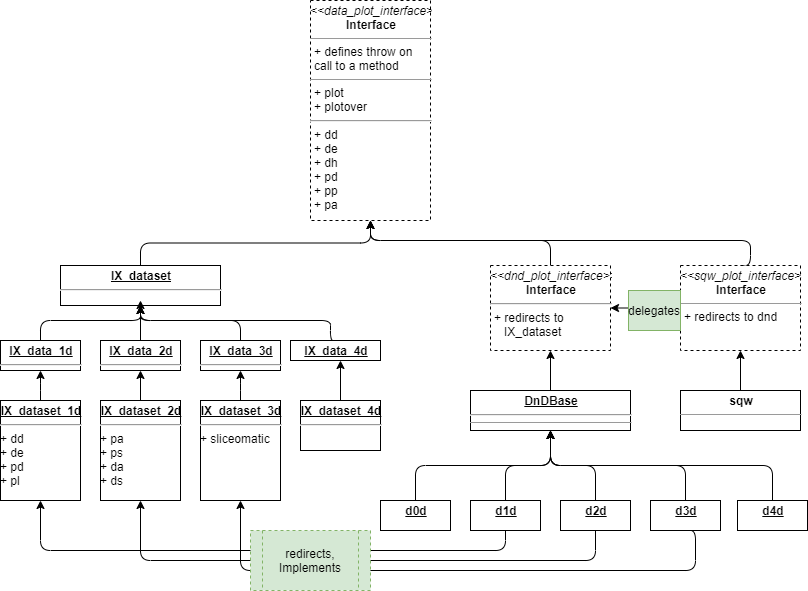
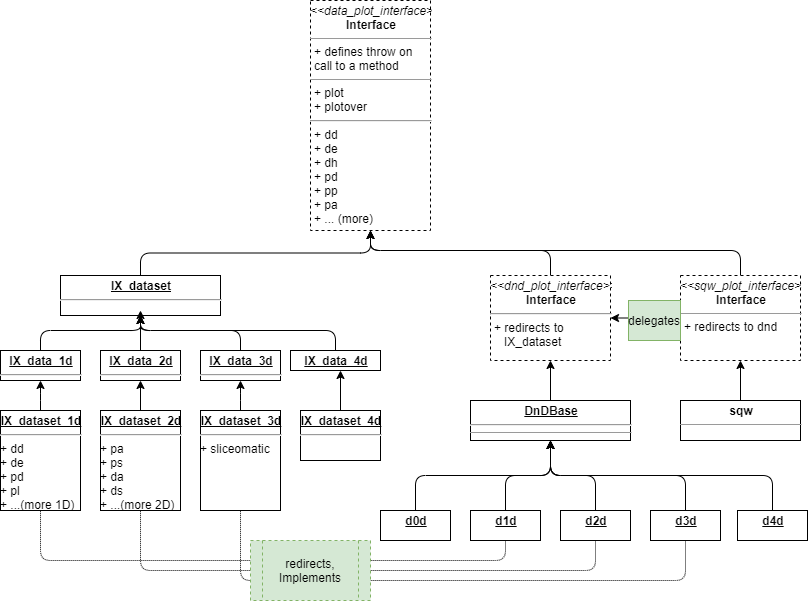
Re #803 replies to review

diff --git a/documentation/add/07-sqw_redesign.md b/documentation/add/07-sqw_redesign.md
@@ -15,7 +15,7 @@ The object provides an interface to the Horace file which can be interchanged wi
 
 The `sqw` object contains two information blocks, describing experiment from different sides and under different approximations:
 
-- `dnd-object` which is the part of the `SQW` object contains processed neutron image data, expressed in the system of coordinates, which has a physical meaning. Very often its `hkl-dE` coordinate system, but it is possible to define other coordinate system of interest too.
+- `dnd-object` which is the part of the `SQW` object contains processed neutron image data, expressed in the system of coordinates, requested by the neutron physicist doing experiment. Very often its `hkl-dE` coordinate system, but it is possible to define other coordinate system of interest too.
 - `sqw-object` itself, in addition to the image data, contains the records of all neutron events occurred in the experiments and expressed (currently) in Crystal Cartesian coordinate system, the informations about all experimental runs the neutron events have been obtained from, information about the instrument and sample used in experiment, the instrument states during experiment and the information about detector pixel array, used to collect neutron events. This information is sufficient to calculate resolution function of the instrument. The neutron events are held in the `PixelData` class, and arranged in such a way, that selection of a part of the `dnd-object` neutron image allows the effective selection of the appropriate part of the `PixelData` contributed into this part of image.
 
 
@@ -24,7 +24,7 @@ In addition, the extra information and raw data contained on the `sqw` object al
 
 ## Main Classes:
 
-The class diagram describing the relationship between main Horace classes is provided on the Fig.1:
+The class diagram describing the relationship between main Horace classes is provided on Fig.1:
 
 ![Fig.1. Class Overview](../diagrams/sqw-dnd.png)
 
@@ -34,15 +34,15 @@ The class diagram describing the relationship between main Horace classes is pro
 
 Abstract base class for the `sqw` and `dnd` objects, describing the interface common for both `sqw` and `dnd` objects.
 
-May include code of the methods with work identically on both `sqw` and `dnd` objects. .
+May include code of the methods with work identically on both `sqw` and `dnd` objects.
 
-Currently it also include common methods, in particular the large number of unary and binary operations which are implemented as calls to operations managers which will be defined in the implementing classes.
+Currently it also include common methods, in particular the large number of unary and binary operations which are implemented as calls to the operations managers defined in the children classes and implementing the particular behaviour, different for `sqw` and `dnd` objects.
 
 ### SQW
 
-The `sqw` object provides the public API to the all relevant experimental data. Main data manipulations are performed on the `PixelData` and `Image` (`dnd` object, within the `sqw` object) is recalculated accordingly.
+The `sqw` object provides the public API to the all relevant experimental data. Main data manipulations are performed on the `PixelData` property `pix` and the `Image` stored in property `data` and containing `dnd` object corresponding to the `sqw` object is recalculated accordingly to the pixel operations.
 
-This class includes the full experiment data including the raw pixel data and details of the instrument and detectors. As the `PixelData` containing all information about neutron events is normally very large dataset `sqw` object for some purpoese may be used without `PixelData`. Alternatively, when `PixelData` is large and can not be loaded in memory, the operations on the `PixelData` can be performed on separate data chunks loaded and processed in memory, leaving the main `PixelData` arrays filebased.
+This class includes the full experiment data including the raw pixel data and the relevant to neutron scattering details of the sample, instrument and detectors. As the `PixelData` containing all information about neutron events is normally a very large dataset `sqw` object in number of operations may be used leaving the `PixelData` untouched. Alternatively, when `PixelData` is large and can not be loaded in memory, the operations on the `PixelData` can be performed on separate data chunks loaded and processed in memory, leaving the main `PixelData` arrays filebased.
 The structure of generic `sqw` object is presented on Fig.2:
 
 ![Fig.2. SQW Class Overview](../diagrams/sqw.png)
@@ -146,10 +146,10 @@ The same `get_data(name)` method can be used to provide access to the "standard"
 (3): existing binary data format must be extended to include additional "number of columns" field (&ge;9) information and the file read/write routines updated to read from an array of `n` columns.
 
 
-### Image (`SQWDnDBase` class in more details)
+### Image (`DnDBase` class in more details)
 
 Represents the n-dimensional array of image pixel data with associated axis information. 
-Image pixel data is generated from the `PixelData` via one or more projections.
+Image pixel data is generated from the `PixelData` via one or more projections. The class diagramm for the image class is presented on Fig.4 above.
 
 |  | Description | Notes |
 |-----|---------|---|
@@ -161,16 +161,17 @@ Image pixel data is generated from the `PixelData` via one or more projections.
 
 
 
+
 **Notes**
 (1): if the image data is updated, e.g. after a slice or projection, the backing pixel data must be updated/reordered
 (2): `pix_signal` represents the array of pixel signal data from which this image data was derived, `pix_variance` the array of pixel variance.
-(3): The `axes_block` classes describes image axes
+(3): The `axes_block` classes describes image axes, namely
 - value range
 - unit vectors
 - units
 
 
-The **DnD class** (current implementation of the image) consists of generic projection transformation and the methods, necessary to implement generic cut procedure.:
+The **DnD class** (current implementation of the image) contains a transformation defined by an instance of a generic projection and the methods, necessary to implement generic cut procedure.:
 
 The Image block ( **DnD class**) consists of 1) an **axes_block** class, defining image binning ranges and coordinates axes used in plotting, 2) a particular instance of **aProjection** class defining the transformation from Crystal Cartesian coordinate system of the **PixelData** class into Image coordinate system (e.g. hkl-dE coordinates for rectilinear projection) and back and 3) *signal*, *error* and *npix* arrays, having the dimensions defined by the **axes_block** and containing information about the pixels, contributed into appropriate bins of the **axes_block**.
 
@@ -200,7 +201,7 @@ Other important methods, necessary for the analysis of different cuts from an sq
 |-----|---------|---|
 | *from_cur_to_targ_coord* | Transforms the pixels of the current image coordinate system into other coordinate system the requested cut is presented in. | |
 | *get_nrange* | return ranges of indexes of pixels which may contribute into current cut | |
-| *bin_pixels* | transform input pixels into the coordinate system, defined by the target projection and calculate the contribution from these pixels into the areas, defined by the target **axes_block**. (namely calculate number of pixels (*npix*) contributing into each cell of the **axes_block** and sum pixels signal and error data into *s* and *err* accumulator arrays)| |
+| *bin_pixels* | transform input pixels into the coordinate system defined by the target projection, and calculate the contribution from these pixels into the areas defined by the target **axes_block**. (namely calculate number of pixels (*npix*) contributing into each cell of the **axes_block** and sum pixels signal and error data into *s* and *err* accumulator arrays)| |
 
 The children of **aProjection** class (e.g. **ortho_proj** class, defining orthogonal projection), need to define the abstract methods and may redefine these methods for particular pairs of projections to optimize the performance of cuts.
 
@@ -209,7 +210,7 @@ The children of **aProjection** class (e.g. **ortho_proj** class, defining ortho
 
 **axes_block** should be overloaded for every coordinate system defined by a projection, with possibility to overload plot methods for the convenience of the plotting in the particular coordinate system.
 
-Operations using projections and cut operations in particular result in the creation of a new `sqw/dnd` object and are performed to the Image Pixels using data from the backing `PixelData`.
+Operations using projections, and cut operations in particular, result in the creation of a new `sqw/dnd` object. They are performed to the Image Pixels using data from the original `PixelData` class. Similar operations are possible on images (`DnD` objects) themselves, but as these objects do not contain all necessary information, the cuts from `DnD` objects are only quantitative estimates for the cuts, obtained using full experiment information available from `sqw` objects.
 
 **Questions**
 
@@ -246,7 +247,7 @@ Combine multiple experiment [data files](http://horace.isis.rl.ac.uk/Input_file_
 - Projection -- aggregate pixel data onto an M-dimensional surface (M &le; N). This should support projections onto planes and spherical shells (TBI) and spiral slices (TBI) as well as reorientations.
 - Symmetrization -- enhance signal-to-noise utilizing symmetries within the data
 
-The operations are performed on the pixel data and the image recalculated from that. If the pixel-data is not available (a `dnd` object) the operations are performed directly on the image with reduced functionality but higher speed.
+The operations are performed on the pixel data and the image recalculated from that. If the pixel-data is not available (a `dnd` object) the operations are performed directly on the image with higher speed but with reduced accuracy or, if the correct accuracy may be achieved, with higly reduced functionality. The correct accuracy can be achieved for axis aligned cuts only.
 
 The data manipulations are implemented through the `ProjectionManager` class and instances of `IProjection`.
 
